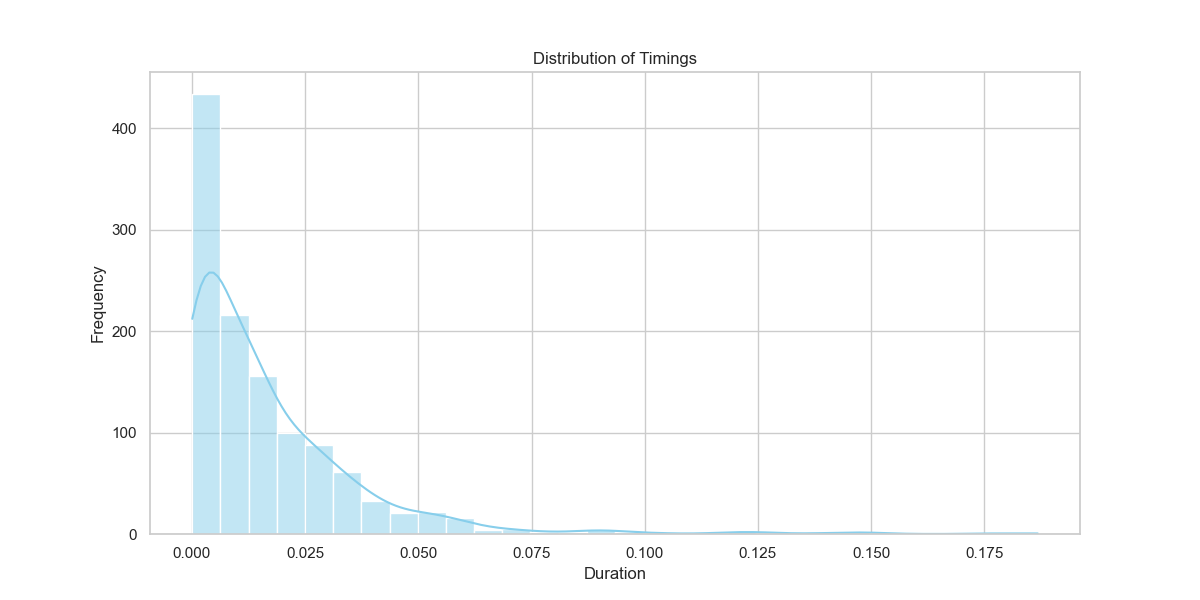
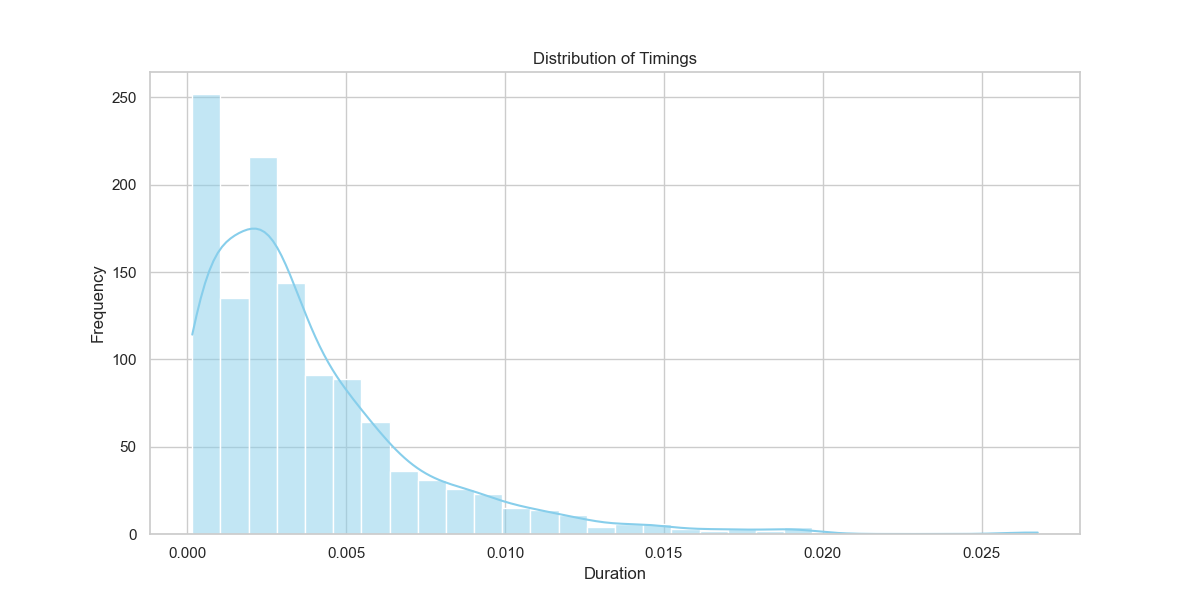
add two new plots

diff --git a/jul1/src/tests/pretty_print_timings.py b/jul1/src/tests/pretty_print_timings.py
@@ -1,16 +1,25 @@
 import textwrap
-
 import pandas as pd
 import matplotlib.pyplot as plt
 import seaborn as sns
 from collections import Counter
 import string
 from prettytable import PrettyTable
+import tiktoken
 
 # Load the CSV file
 file_path = 'timings.csv'  # Adjust the path as needed
 data = pd.read_csv(file_path)
 
+# Get the tokenizer
+tokenizer = tiktoken.encoding_for_model("gpt-4o")
+
+# Function to count tokens
+def count_tokens(text):
+    return len(tokenizer.encode(text))
+
+# Add token count to the dataframe
+data['token_count'] = data['text'].apply(count_tokens)
 
 # Distribution of timings
 def plot_timing_distribution(data):
@@ -21,9 +30,9 @@ def plot_timing_distribution(data):
     plt.xlabel('Duration')
     plt.ylabel('Frequency')
     plt.savefig('timing_distribution.png')
+    plt.close()
 
     # Timings per character
-    sns.set(style="whitegrid")
     plt.figure(figsize=(12, 6))
     time_per_char = [row['duration'] / len(row['text']) * 1000 for _, row in data.iterrows()]
     sns.histplot(time_per_char, kde=True, bins=30, color='skyblue')
@@ -31,26 +40,43 @@ def plot_timing_distribution(data):
     plt.xlabel('Time per Character (ms)')
     plt.ylabel('Frequency')
     plt.savefig('timing_per_char.png')
+    plt.close()
 
+    # Characters per second
+    plt.figure(figsize=(12, 6))
+    chars_per_second = [len(row['text']) / row['duration'] for _, row in data.iterrows()]
+    sns.histplot(chars_per_second, kde=True, bins=30, color='lightgreen')
+    plt.title('Distribution of Characters per Second')
+    plt.xlabel('Characters per Second')
+    plt.ylabel('Frequency')
+    plt.savefig('chars_per_second.png')
+    plt.close()
+
+    # Tokens per second
+    plt.figure(figsize=(12, 6))
+    tokens_per_second = [row['token_count'] / row['duration'] for _, row in data.iterrows()]
+    sns.histplot(tokens_per_second, kde=True, bins=30, color='salmon')
+    plt.title('Distribution of Tokens per Second')
+    plt.xlabel('Tokens per Second')
+    plt.ylabel('Frequency')
+    plt.savefig('tokens_per_second.png')
+    plt.close()
 
 # Pretty print the data
 def pretty_print_data(data):
     table = PrettyTable()
-    table.field_names = ["Index", "Character Count", "Duration", "Time per Character (ms)", "Text"]
-    # Align the text column left and make sure it doesn't go over the page width. If it does, don't wrap it, cut it off, and put ellipses at the end.
+    table.field_names = ["Index", "Char Count", "Token Count", "Duration", "Time per Char (ms)", "Time per Token (ms)", "Text"]
     table.align["Text"] = "l"
-
     for index, row in data.iterrows():
         text = row['text'][:100]
         duration = row['duration']
         char_count = len(text)
+        token_count = row['token_count']
         time_per_char = duration / char_count * 1000
-        table.add_row([index, char_count, duration, time_per_char, text])
-
+        time_per_token = duration / token_count * 1000
+        table.add_row([index, char_count, token_count, duration, time_per_char, time_per_token, text])
     print(table)
-
 
 # Plot the distributions
 plot_timing_distribution(data)
-
 pretty_print_data(data)

diff --git a/jul1/src/tests/utils.rs b/jul1/src/tests/utils.rs
@@ -97,16 +97,16 @@ pub fn assert_parses<T: CombinatorTrait, S: ToString>(combinator: &T, input: S, 
         // );
     }
 
-    // // Save to CSV
-    // let mut csv_file = BufWriter::new(File::create("timings.csv").unwrap());
-    // csv_file.write_all("index,text,duration\n".as_bytes()).unwrap();
-    // for (i, (line, duration)) in timing_vec.iter().enumerate() {
-    //     // Escape quotes and newlines in the text
-    //     let line = line.replace("\"", "\"\"");
-    //     let line = line.replace("\n", "\\n");
-    //     csv_file.write_all(format!("{},\"{}\",{}\n", i, line, duration.as_secs_f64()).as_bytes()).unwrap();
-    // }
-    // println!("Saved timings to timings.csv");
+    // Save to CSV
+    let mut csv_file = BufWriter::new(File::create("timings.csv").unwrap());
+    csv_file.write_all("index,text,duration\n".as_bytes()).unwrap();
+    for (i, (line, duration)) in timing_vec.iter().enumerate() {
+        // Escape quotes and newlines in the text
+        let line = line.replace("\"", "\"\"");
+        let line = line.replace("\n", "\\n");
+        csv_file.write_all(format!("{},\"{}\",{}\n", i, line, duration.as_secs_f64()).as_bytes()).unwrap();
+    }
+    println!("Saved timings to timings.csv");
 }
 
 pub fn assert_parses_default<T: CombinatorTrait, S: ToString>(combinator: &T, input: S) {
